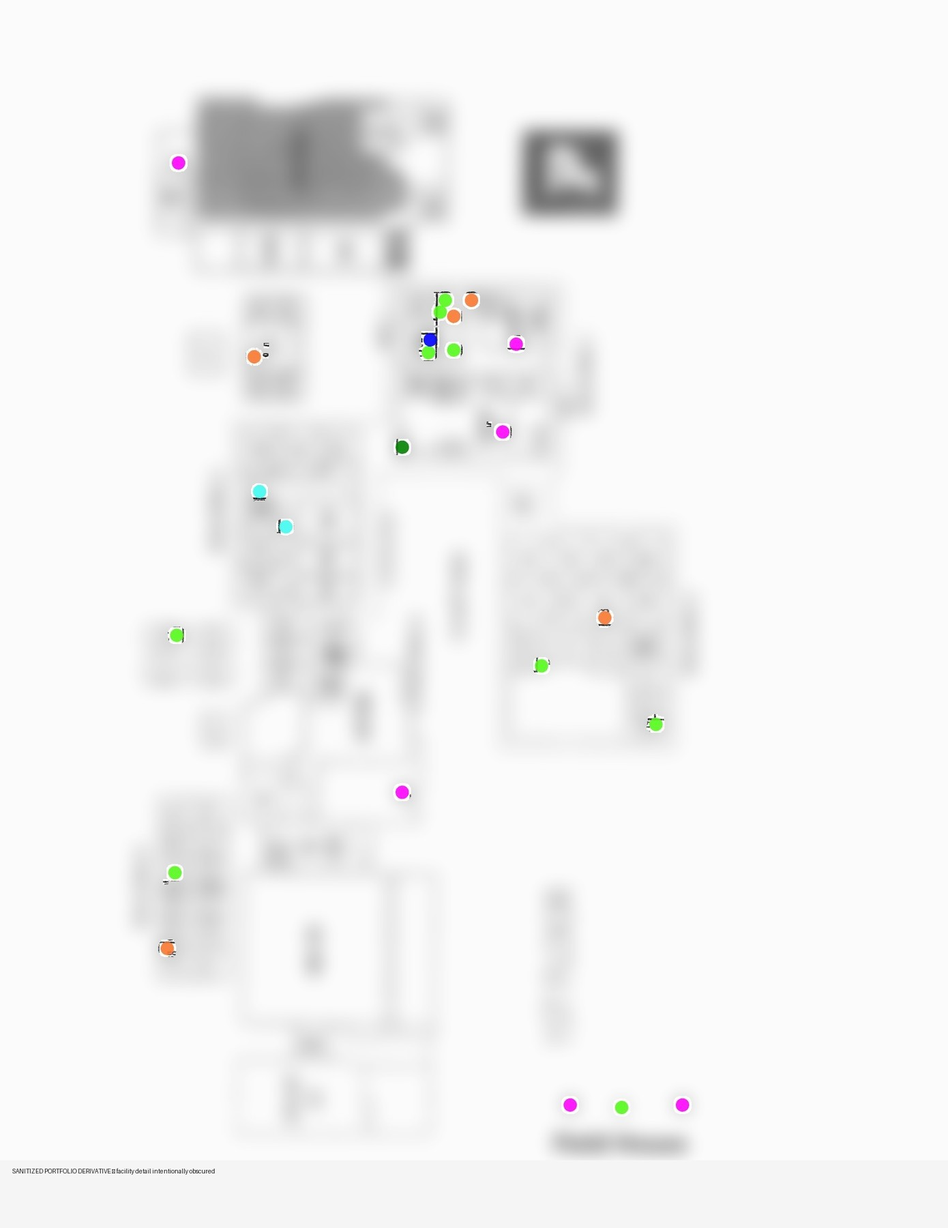
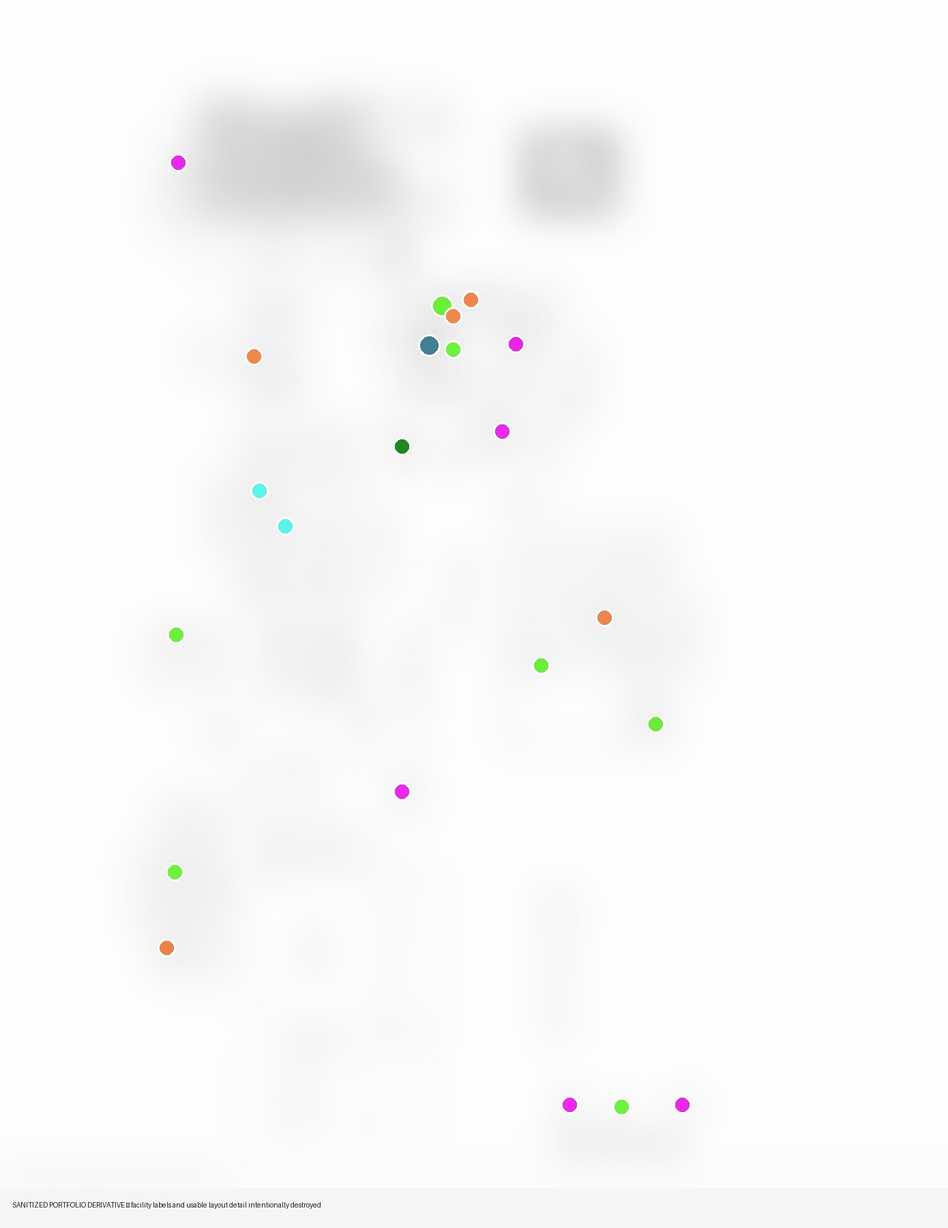
feat(portfolio): finish Phase 1 career evidence integration

diff --git a/case-study-carbis-infrastructure.html b/case-study-carbis-infrastructure.html
@@ -1,29 +1,259 @@
 <!doctype html>
-<html lang="en"><head>
-<meta charset="utf-8"><meta name="viewport" content="width=device-width, initial-scale=1">
-<title>From Legacy Server Room to Enterprise Platform | Joshua C. McDonald</title>
-<meta name="description" content="An evidence-backed, public-safe case study of early-career infrastructure modernization across Aluminum Ladder Company and Carbis.">
-<meta name="author" content="Joshua C. McDonald">
-<meta name="robots" content="index, follow, max-image-preview:large">
-<link rel="icon" href="/icons/favicon.ico" sizes="any">
-<link rel="stylesheet" href="assets/css/styles-v31.css?v=3.9.0">
-</head><body>
-<a class="skip-link" href="#main">Skip to content</a><header class="site-header"><div class="container nav-wrap">
-<a class="brand" href="index.html#top"><span class="brand-mark" aria-hidden="true">⟠</span><span><strong>Joshua C. McDonald</strong><small><span>PacketPhreak</span><span class="brand-role"> · Infrastructure &amp; Network Analyst</span></small></span></a>
-<nav class="nav" aria-label="Primary navigation"><a href="index.html#about">About</a><a href="index.html#focus">Focus</a><a href="index.html#case-studies">Case Studies</a><a href="breachd.html">BreachD</a><a href="toolbox.html">t00lB0x</a><a href="timeline.html">Time Capsule</a><a href="assets/docs/Joshua_C_McDonald_Resume_2026.pdf">Resume</a><a class="nav-cta" href="index.html#contact">Contact</a></nav>
-</div></header>
-<main id="main">
-<section class="case-hero section-pad"><div class="container">
-<p class="eyebrow">Infrastructure Modernization • Manufacturing • ERP</p>
-<h1 class="case-title hero-3d-title">From legacy server room to enterprise platform.</h1>
-<p class="hero-lede">I began my IT career supporting the affiliated Aluminum Ladder Company / Carbis organization. The work grew from day-to-day support into network administration and infrastructure modernization across Florence operations, the Darlington manufacturing facility, and remote personnel.</p>
-<div class="signal-strip"><span>Evidence-backed</span><span>Public-safe derivatives</span><span>Originals preserved privately</span></div>
-</div></section>
-<section class="section-pad"><div class="container"><div class="section-head narrow-head"><p class="eyebrow">Situation</p><h2 class="section-3d-title">Growth exposed the limits of the existing environment.</h2><p class="section-note">The organization needed infrastructure capable of supporting expanding operations, a Microsoft Dynamics AX implementation, virtualization, shared storage, modern telecommunications, and better operational resilience.</p></div></div></section>
-<section class="section-pad"><div class="container"><div class="section-head narrow-head"><p class="eyebrow">Architecture</p><h2 class="section-3d-title">The environment became a platform, not a pile of servers.</h2><p class="section-note">The modernization included HP BladeSystem c7000 infrastructure, ProLiant blades, Virtual Connect, shared storage, VMware, Windows Server services, backup systems, upgraded power protection, and an NEC UNIVERGE SV8100 communications platform.</p></div></div></section>
-<section class="section-pad"><div class="container"><div class="section-head narrow-head"><p class="eyebrow">Operating lesson</p><h2 class="section-3d-title">Modernization only matters when the business can keep moving.</h2><p class="section-note">This work helped shape the way I still approach infrastructure: understand dependencies, design for the operation, and avoid solving today's problem by creating tomorrow's outage.</p></div></div></section>
-<section class="section-pad"><div class="container"><div class="isilon-photo-grid"><figure class="isilon-photo"><img src="assets/img/career/carbis/carbis-01-before-cabling.jpg" alt="Legacy cabling in the original data room" loading="lazy"><figcaption><strong>Before.</strong> A preserved view of the legacy cabling and infrastructure condition.</figcaption></figure><figure class="isilon-photo"><img src="assets/img/career/carbis/carbis-02-infrastructure-transition.jpg" alt="Server racks during infrastructure transition" loading="lazy"><figcaption><strong>Transition.</strong> The environment changing while production still had to run.</figcaption></figure><figure class="isilon-photo"><img src="assets/img/career/carbis/carbis-03-modernized-racks.jpg" alt="Modernized server racks" loading="lazy"><figcaption><strong>Operational.</strong> Modernized compute, storage, networking and support systems in service.</figcaption></figure><figure class="isilon-photo"><img src="assets/img/career/carbis/carbis-04-bladesystem-front.jpg" alt="HP BladeSystem chassis" loading="lazy"><figcaption><strong>Enterprise compute.</strong> HP blade infrastructure used to consolidate and support business workloads.</figcaption></figure><figure class="isilon-photo"><img src="assets/img/career/carbis/carbis-05-server-bench-work.jpg" alt="Rack server opened for bench work" loading="lazy"><figcaption><strong>Hands-on.</strong> Infrastructure work included the physical layer, not just the diagrams.</figcaption></figure></div></div></section>
-<section class="section-pad"><div class="container"><p class="section-note"><strong>Evidence policy:</strong> Public media on this page is derived from historical source material. Credentials, internal addressing, serial numbers, customer/staff information, precise facility details, and metadata are removed or obscured. Originals are retained separately and are not published.</p></div></section>
-</main>
-<script src="assets/js/site.js" defer></script>
-</body></html>
+<html lang="en">
+<head>
+  <meta name="site-version" content="v3.9.0-th3-toolbox" />
+  <meta charset="utf-8" />
+  <meta name="viewport" content="width=device-width, initial-scale=1" />
+
+  <title>From Legacy Server Room to Enterprise Platform | Joshua C. McDonald</title>
+  <meta name="title" content="From Legacy Server Room to Enterprise Platform | Joshua C. McDonald" />
+  <meta name="description" content="An evidence-backed, public-safe case study of early-career infrastructure modernization across Aluminum Ladder Company and Carbis, including HP BladeSystem, virtualization, Dynamics AX infrastructure, power protection, and NEC UNIVERGE SV8100 communications." />
+  <meta name="author" content="Joshua C. McDonald" />
+  <meta name="robots" content="index, follow, max-image-preview:large" />
+  <meta name="theme-color" content="#07111f" />
+  <link rel="canonical" href="https://joshuacmcdonald.com/case-study-carbis-infrastructure.html" />
+
+  <meta property="og:type" content="article" />
+  <meta property="og:site_name" content="Joshua C. McDonald / PacketPhreak" />
+  <meta property="og:locale" content="en_US" />
+  <meta property="og:url" content="https://joshuacmcdonald.com/case-study-carbis-infrastructure.html" />
+  <meta property="og:title" content="From Legacy Server Room to Enterprise Platform" />
+  <meta property="og:description" content="Early-career manufacturing infrastructure modernization spanning compute, virtualization, ERP support, communications, power protection, and hands-on operations." />
+  <meta property="og:image" content="https://joshuacmcdonald.com/og-image.png" />
+
+  <meta name="twitter:card" content="summary_large_image" />
+  <meta name="twitter:title" content="From Legacy Server Room to Enterprise Platform" />
+  <meta name="twitter:description" content="An evidence-backed case study in manufacturing infrastructure modernization and operational IT." />
+  <meta name="twitter:image" content="https://joshuacmcdonald.com/og-image.png" />
+
+  <link rel="icon" href="/icons/favicon.ico" sizes="any" />
+  <link rel="icon" type="image/png" sizes="32x32" href="/icons/favicon-32x32.png" />
+  <link rel="icon" type="image/png" sizes="16x16" href="/icons/favicon-16x16.png" />
+  <link rel="apple-touch-icon" href="/icons/apple-touch-icon.png" />
+  <link rel="manifest" href="/site.webmanifest" />
+  <link rel="stylesheet" href="assets/css/styles-v31.css?v=3.9.0" />
+
+  <script type="application/ld+json">
+  {
+    "@context": "https://schema.org",
+    "@type": "TechArticle",
+    "headline": "From Legacy Server Room to Enterprise Platform",
+    "author": {
+      "@type": "Person",
+      "name": "Joshua C. McDonald",
+      "alternateName": "PacketPhreak"
+    },
+    "about": [
+      "Manufacturing IT",
+      "HP BladeSystem c7000",
+      "VMware virtualization",
+      "Microsoft Dynamics AX",
+      "Windows Server",
+      "Shared storage",
+      "NEC UNIVERGE SV8100",
+      "Infrastructure modernization"
+    ],
+    "url": "https://joshuacmcdonald.com/case-study-carbis-infrastructure.html"
+  }
+  </script>
+</head>
+<body>
+  <a class="skip-link" href="#main">Skip to content</a>
+  <header class="site-header">
+    <div class="container nav-wrap">
+      <a class="brand" href="index.html#top" aria-label="Joshua C. McDonald portfolio home">
+        <span class="brand-mark" aria-hidden="true">⟠</span>
+        <span>
+          <strong>Joshua C. McDonald</strong>
+          <small><span>PacketPhreak</span><span class="brand-role"> · Infrastructure &amp; Network Analyst</span></small>
+        </span>
+      </a>
+      <button class="nav-toggle" type="button" aria-label="Open navigation" aria-expanded="false" data-nav-toggle>
+        <span></span><span></span><span></span>
+      </button>
+      <nav class="nav" aria-label="Primary navigation" data-nav>
+        <a href="index.html#about">About</a>
+        <a href="index.html#focus">Focus</a>
+        <a href="index.html#case-studies">Case Studies</a>
+        <a href="breachd.html">BreachD</a>
+        <a href="toolbox.html">t00lB0x</a>
+        <a href="timeline.html">Time Capsule</a>
+        <a href="assets/docs/Joshua_C_McDonald_Resume_2026.pdf">Resume</a>
+        <a class="nav-cta" href="index.html#contact">Contact</a>
+      </nav>
+    </div>
+  </header>
+
+  <div class="reading-progress" aria-hidden="true"><span data-reading-progress></span></div>
+
+  <main id="main">
+    <section class="case-hero section-pad">
+      <div class="container">
+        <p class="eyebrow">Infrastructure Modernization • Manufacturing • ERP • Early Career</p>
+        <h1 class="case-title hero-3d-title" data-title="From legacy server room to enterprise platform.">From legacy server room to enterprise platform.</h1>
+        <p class="hero-lede">
+          I began my IT career supporting the affiliated Aluminum Ladder Company / Carbis organization.
+          What started as day-to-day support grew into network administration and infrastructure modernization across Florence operations,
+          the Darlington manufacturing facility, and remote personnel.
+        </p>
+        <div class="signal-strip" aria-label="Case study summary">
+          <span>2009–2012</span>
+          <span>Manufacturing IT</span>
+          <span>ERP infrastructure</span>
+          <span>Hands-on modernization</span>
+        </div>
+      </div>
+    </section>
+
+    <section class="section-pad case-overview-strip">
+      <div class="container overview-grid">
+        <article class="mini-panel">
+          <h3>Situation</h3>
+          <p>A growing manufacturing organization needed to move beyond a legacy server-room environment while keeping day-to-day operations running.</p>
+        </article>
+        <article class="mini-panel">
+          <h3>Scope</h3>
+          <p>Compute, virtualization, shared storage, Windows Server services, Dynamics AX infrastructure, backup, power protection, networking, and voice communications.</p>
+        </article>
+        <article class="mini-panel">
+          <h3>Result</h3>
+          <p>A more consolidated and supportable infrastructure platform capable of carrying broader business workloads and manufacturing operations.</p>
+        </article>
+      </div>
+    </section>
+
+    <section class="section-pad">
+      <div class="container">
+        <div class="section-head narrow-head">
+          <p class="eyebrow">The starting point</p>
+          <h2 class="section-3d-title" data-title="Growth exposed the limits of the existing environment.">Growth exposed the limits of the existing environment.</h2>
+          <p class="section-note">
+            The work was not a clean-sheet lab build. Production already existed. People still needed systems, phones, files, and business applications
+            while the underlying infrastructure was being improved around them.
+          </p>
+        </div>
+      </div>
+    </section>
+
+    <section class="section-pad">
+      <div class="container">
+        <div class="section-head narrow-head">
+          <p class="eyebrow">Compute and platform</p>
+          <h2 class="section-3d-title" data-title="The environment became a platform, not a pile of servers.">The environment became a platform, not a pile of servers.</h2>
+        </div>
+        <div class="rich-text">
+          <p>
+            The modernization included HP BladeSystem c7000 infrastructure, ProLiant blades, Virtual Connect, shared storage,
+            VMware virtualization, Windows Server services, backup systems, upgraded power protection, and supporting network infrastructure.
+          </p>
+          <p>
+            Contemporaneous configuration exports from the environment show blade-hosted roles supporting Microsoft Dynamics AX application and SQL workloads,
+            Exchange 2010, SharePoint, virtualized workloads, and backup services. The public case study keeps internal hostnames, addressing,
+            serial numbers, account details, and topology identifiers out of view.
+          </p>
+        </div>
+      </div>
+    </section>
+
+    <section class="section-pad">
+      <div class="container">
+        <div class="section-head narrow-head">
+          <p class="eyebrow">ERP and manufacturing operations</p>
+          <h2 class="section-3d-title" data-title="The infrastructure had to support the business process, not compete with it.">The infrastructure had to support the business process, not compete with it.</h2>
+          <p class="section-note">
+            Infrastructure work supported a Microsoft Dynamics AX implementation and the broader manufacturing environment.
+            The technical goal was not simply to install newer hardware; it was to create a platform that could carry business-critical workloads
+            without turning every maintenance event into an operational problem.
+          </p>
+        </div>
+      </div>
+    </section>
+
+    <section class="section-pad">
+      <div class="container">
+        <div class="section-head narrow-head">
+          <p class="eyebrow">Communications and resilience</p>
+          <h2 class="section-3d-title" data-title="Servers were only one dependency.">Servers were only one dependency.</h2>
+        </div>
+        <div class="rich-text">
+          <p>
+            The modernization also crossed communications and power. I supported deployment and administration of an NEC UNIVERGE SV8100 PBX
+            and worked around the power-protection and continuity requirements that kept the environment usable when infrastructure conditions were less than ideal.
+          </p>
+          <p>
+            That broader view—compute, storage, network, voice, power, business applications, and the people depending on all of it—became the foundation
+            of how I approached infrastructure work later in my career.
+          </p>
+        </div>
+      </div>
+    </section>
+
+    <section class="section-pad">
+      <div class="container">
+        <div class="section-head narrow-head">
+          <p class="eyebrow">Preserved evidence</p>
+          <h2 class="section-3d-title" data-title="The photos show the transition.">The photos show the transition.</h2>
+          <p class="section-note">
+            These public-safe derivatives come from historical project media. Metadata has been removed and sensitive labels or screens are obscured where necessary.
+          </p>
+        </div>
+
+        <div class="isilon-photo-grid">
+          <figure class="isilon-photo">
+            <img src="assets/img/career/carbis/carbis-01-before-cabling.jpg" alt="Legacy cabling in the original data room" loading="lazy">
+            <figcaption><strong>Before.</strong> A preserved view of the legacy cabling and infrastructure condition.</figcaption>
+          </figure>
+          <figure class="isilon-photo">
+            <img src="assets/img/career/carbis/carbis-02-infrastructure-transition.jpg" alt="Server racks during infrastructure transition" loading="lazy">
+            <figcaption><strong>Transition.</strong> The environment changing while production still had to run.</figcaption>
+          </figure>
+          <figure class="isilon-photo">
+            <img src="assets/img/career/carbis/carbis-03-modernized-racks.jpg" alt="Modernized server racks" loading="lazy">
+            <figcaption><strong>Operational.</strong> Modernized compute, storage, networking, and support systems in service.</figcaption>
+          </figure>
+          <figure class="isilon-photo">
+            <img src="assets/img/career/carbis/carbis-04-bladesystem-front.jpg" alt="HP BladeSystem chassis" loading="lazy">
+            <figcaption><strong>Enterprise compute.</strong> HP blade infrastructure used to consolidate and support business workloads.</figcaption>
+          </figure>
+          <figure class="isilon-photo">
+            <img src="assets/img/career/carbis/carbis-05-server-bench-work.jpg" alt="Rack server opened for bench work" loading="lazy">
+            <figcaption><strong>Hands-on.</strong> Infrastructure work included the physical layer, not just the diagrams.</figcaption>
+          </figure>
+        </div>
+      </div>
+    </section>
+
+    <section class="section-pad">
+      <div class="container">
+        <div class="section-head narrow-head">
+          <p class="eyebrow">Operating lesson</p>
+          <h2 class="section-3d-title" data-title="Modernization only matters when the business can keep moving.">Modernization only matters when the business can keep moving.</h2>
+          <p class="section-note">
+            This work shaped the way I still approach infrastructure: understand the dependencies, design around the operation,
+            and avoid solving today's problem by quietly creating tomorrow's outage.
+          </p>
+        </div>
+      </div>
+    </section>
+
+    <section class="section-pad">
+      <div class="container">
+        <p class="section-note">
+          <strong>Evidence policy:</strong> Public media and technical descriptions on this page are derived from historical source material.
+          Credentials, internal addressing, serial numbers, account information, precise facility details, and metadata are removed or obscured.
+          Originals remain private and unchanged.
+        </p>
+      </div>
+    </section>
+  </main>
+
+  <footer class="site-footer">
+    <div class="container footer-wrap">
+      <p>© <span data-year></span> Joshua C. McDonald / PacketPhreak.</p>
+      <a href="index.html#case-studies">Back to case studies</a>
+    </div>
+  </footer>
+
+  <script src="assets/js/main.js" defer></script>
+</body>
+</html>

diff --git a/index.html b/index.html
@@ -238,7 +238,20 @@ root cause found</code></pre>
             <ul><li>Installed and commissioned eight nodes across production and DR.</li><li>Documented manual failover and failback when automation was unavailable.</li><li>Coordinated internal IT, Dell, colocation, and implementation partners.</li></ul>
             <div class="case-actions"><a class="btn btn-primary btn-small" href="case-study-isilon-dr.html">Open case study</a></div>
           </article>
-        </div>
+          <article class="case-card featured-case">
+            <div class="case-meta">Infrastructure Modernization • Manufacturing • ERP</div>
+            <h3>From Legacy Server Room to Enterprise Platform</h3>
+            <p>Early-career infrastructure modernization across Aluminum Ladder / Carbis, spanning enterprise compute, virtualization, Dynamics AX infrastructure, shared storage, power protection, networking, and voice communications.</p>
+            <ul><li>Moved from legacy server-room conditions toward a consolidated enterprise platform.</li><li>Supported HP BladeSystem, VMware, Windows Server, Dynamics AX workloads, backup, and shared storage.</li><li>Supported deployment and administration of the NEC UNIVERGE SV8100 communications platform.</li></ul>
+            <div class="case-actions"><a class="btn btn-primary btn-small" href="case-study-carbis-infrastructure.html">Open case study</a></div>
+          </article>
+          <article class="case-card featured-case">
+            <div class="case-meta">Discovery • K-12 • Managed Print • RFP</div>
+            <h3>Mapping the Problem Before Selling the Solution</h3>
+            <p>Districtwide field discovery that connected real user workflows, equipment capabilities, floor-plan mapping, proposal design, and post-deployment technical work with school-system IT teams.</p>
+            <ul><li>Walked every site with an experienced managed-print teammate and documented operational requirements.</li><li>Translated field observations into model-specific configurations and placement maps.</li><li>Worked directly with Moore and Scotland County IT teams after MyQ / Kyocera Net Manager implementation.</li></ul>
+            <div class="case-actions"><a class="btn btn-primary btn-small" href="case-study-moore-county-discovery.html">Open case study</a></div>
+          </article>        </div>
       </div>
     </section>
 

diff --git a/ASSET_PROVENANCE.md b/ASSET_PROVENANCE.md
@@ -1,9 +1,16 @@
 # Phase 1 Asset Provenance
 
-- `assets/img/career/carbis/carbis-01-before-cabling.jpg` ← `027.JPG` — EXIF removed; selected sensitive areas blurred where applicable
-- `assets/img/career/carbis/carbis-02-infrastructure-transition.jpg` ← `040.JPG` — EXIF removed; selected sensitive areas blurred where applicable
-- `assets/img/career/carbis/carbis-03-modernized-racks.jpg` ← `IMG_0154.JPG` — EXIF removed; selected sensitive areas blurred where applicable
-- `assets/img/career/carbis/carbis-04-bladesystem-front.jpg` ← `IMG_0157.JPG` — EXIF removed; selected sensitive areas blurred where applicable
-- `assets/img/career/carbis/carbis-05-server-bench-work.jpg` ← `IMG_0260.JPG` — EXIF removed; selected sensitive areas blurred where applicable
-- `assets/img/case-studies/moore-county/moore-discovery-map-sanitized-1.jpg` ← `/mnt/data/moore_preview/Moore Entirety/Maps/Moore Co Schools maps scanned-2019-04-22-01-28-37/2-.jpg` — Floorplan geometry/details heavily blurred; only high-saturation planning marks retained; metadata removed
-- `assets/img/case-studies/moore-county/moore-discovery-map-sanitized-2.jpg` ← `/mnt/data/moore_preview/Moore Entirety/Maps/Moore Co Schools maps scanned-2019-04-22-01-28-37/5-.jpg` — Floorplan geometry/details heavily blurred; only high-saturation planning marks retained; metadata removed
+These files are public-safe derivatives. Original evidence masters remain private and unchanged.
+
+## Carbis / Aluminum Ladder
+- `assets/img/career/carbis/carbis-01-before-cabling.jpg` ← historical source `027.JPG` — metadata removed; public-safe derivative
+- `assets/img/career/carbis/carbis-02-infrastructure-transition.jpg` ← historical source `040.JPG` — metadata removed; selected sensitive areas obscured
+- `assets/img/career/carbis/carbis-03-modernized-racks.jpg` ← historical source `IMG_0154.JPG` — metadata removed; public-safe derivative
+- `assets/img/career/carbis/carbis-04-bladesystem-front.jpg` ← historical source `IMG_0157.JPG` — metadata removed; public-safe derivative
+- `assets/img/career/carbis/carbis-05-server-bench-work.jpg` ← historical source `IMG_0260.JPG` — metadata removed; selected label detail obscured
+
+## Moore County Schools
+- `assets/img/case-studies/moore-county/moore-discovery-map-sanitized-1.jpg` ← private project floor-plan source — public derivative destroys usable facility geometry and labels; planning-marker positions are retained only as abstract evidence of the mapping methodology; metadata removed
+- `assets/img/case-studies/moore-county/moore-discovery-map-sanitized-2.jpg` ← private project floor-plan source — public derivative destroys usable facility geometry and labels; planning-marker positions are retained only as abstract evidence of the mapping methodology; metadata removed
+
+Exact private source paths are intentionally excluded from the public repository.

diff --git a/REDACTION_MANIFEST.md b/REDACTION_MANIFEST.md
@@ -1,17 +1,19 @@
 # Phase 1 Public Asset Redaction Manifest
 
-These are **public derivatives**, not evidence masters. Original files must remain unchanged and private.
+These are **public derivatives**, not evidence masters. Original files remain unchanged and private.
 
 ## Carbis / Aluminum Ladder
 - EXIF/GPS metadata removed from all exported JPGs.
-- Close-readable labels/screens were blurred on selected images.
-- Public set favors wide infrastructure views over serial-number closeups.
+- Close-readable labels/screens are obscured where necessary.
+- Public selections favor wide infrastructure views over serial-number or asset-tag closeups.
+- No internal IP addresses, hostnames, credentials, MAC addresses, serial numbers, UUIDs, account information, or private configuration exports are published.
 
 ## Moore County Schools
-- Original school floor plans are NOT public assets.
-- Public derivatives intentionally obscure facility geometry, rooms, labels, names, and other usable layout details.
-- Colored planning annotations are retained only to demonstrate discovery / solution-mapping methodology.
-- No proposal pricing, staff/customer contact data, signatures, asset IDs, credentials, or infrastructure addressing should be published.
+- Original school floor plans are **not** public assets.
+- Public derivatives intentionally destroy usable facility geometry, room labels, names, and other identifying layout detail.
+- Planning-marker positions are retained only to demonstrate the discovery / solution-mapping methodology.
+- Marker labels from the source artifacts are not retained.
+- No proposal pricing, commercial terms, staff/customer contact data, signatures, asset IDs, credentials, or infrastructure addressing are published.
 
 ## Publication rule
-Never substitute an original source file for a derivative with the same subject.
+Never substitute an original evidence file for a public derivative with the same subject.
